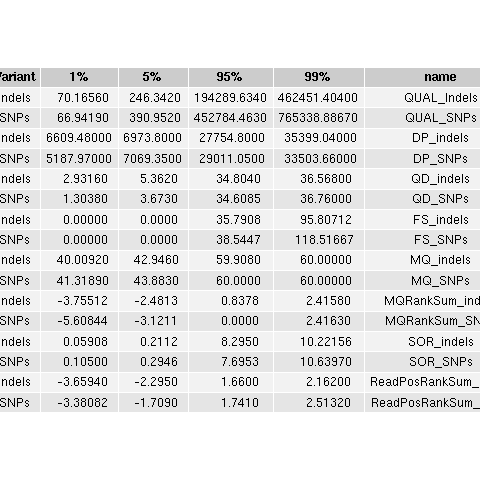
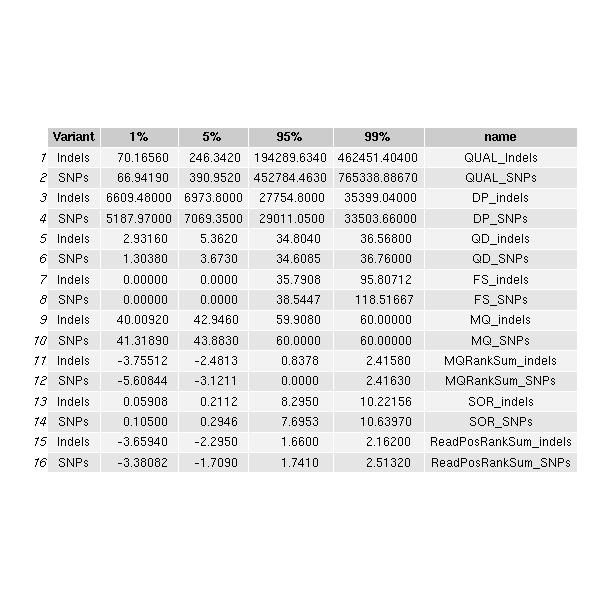
update

Changed region(s): [[0.0, 0.125, 1.0, 0.875]]

diff --git a/03_code/ancient_trichuris.workbook.md b/03_code/ancient_trichuris.workbook.md
@@ -1307,7 +1307,7 @@ ReadPosRankSum_quant$name <- "ReadPosRankSum"
 quantiles <- bind_rows(QUAL_quant,DP_quant, QD_quant, FS_quant, MQ_quant, MQRankSum_quant, SOR_quant, ReadPosRankSum_quant)
 quantiles$name <- c("QUAL_Indels","QUAL_SNPs","DP_indels","DP_SNPs", "QD_indels","QD_SNPs", "FS_indels","FS_SNPs", "MQ_indels","MQ_SNPs", "MQRankSum_indels","MQRankSum_SNPs", "SOR_indels","SOR_SNPs","ReadPosRankSum_indels","ReadPosRankSum_SNPs")
 
-png(paste0("table_",title,"_variant_quantiles.png"), width=480,height=480,bg = "white")
+png(paste0("table_",title,"_variant_quantiles.png"), width=600,height=600,bg = "white")
 print(quantiles)
 grid.table(quantiles)
 dev.off()
